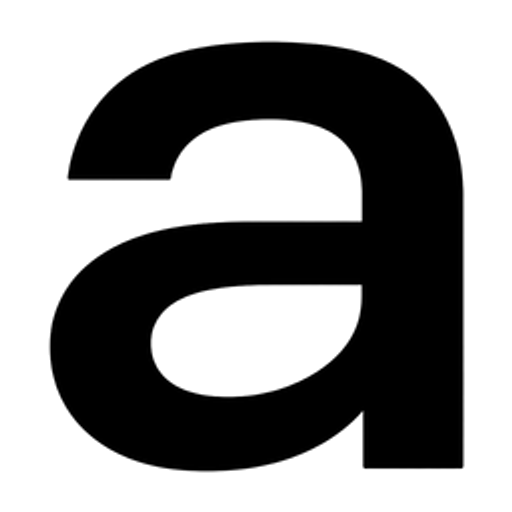
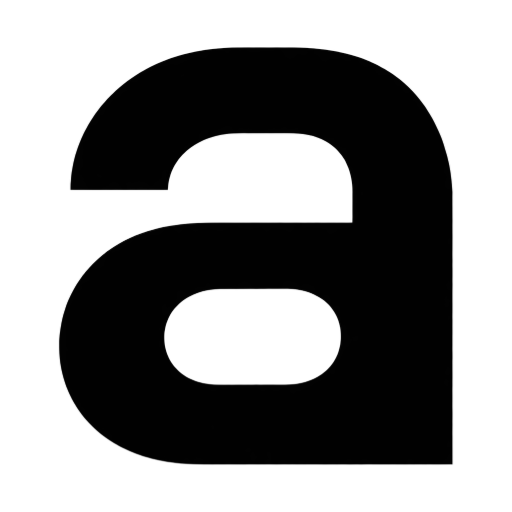
Refactor code structure for improved readability and maintainability

diff --git a/docs/branding.md b/docs/branding.md
@@ -5,3 +5,7 @@ The Apiosk connector uses the same transparent a as the app sidebar and website 
 The live MCP initialize response, discovery server card and server.json share the SVG and theme-labelled 512px PNG icons. dxt.json uses the adaptive SVG. Versioned URLs prevent reuse of the old purple artwork. The legacy logo-optimized-light.png URL remains available with the transparent black mark and revalidation headers.
 
 Assets live in assets/brand and ship in both the npm package and Docker image. Clients that snapshot connector metadata need to refresh the connection after deployment. Published directory listings may use a separately uploaded logo; changing MCP metadata does not confirm their displayed artwork has changed.
+
+The September 2026 refresh uses `mark-{light,dark}-20260918.png` and `mark-20260918.svg` for icons. The supplied icon silhouette is embedded in the adaptive SVG. The full-name artwork retains the previous `wordmark-{black,white}-320.png` images. Apple touch icons are 180px with an opaque background. Older connector icon URLs are explicit aliases with revalidation headers. Card wordmarks follow the host's `data-theme` even when it differs from the operating system.
+
+The canonical icon source and exporter are in the adjacent website checkout at `assets/brand` and `scripts/generate-brand-assets.mjs`. The exporter preserves existing wordmarks.
